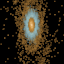
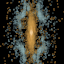
feat: open the spindle into anisotropic silk strands
Lower nest opacity, draw thin tall linear copies, and keep body xaos
lean so black can show between filaments instead of packing a sponge.

diff --git a/internal/sketch/flame/genome.go b/internal/sketch/flame/genome.go
@@ -47,64 +47,69 @@ func post(x *fl.Xform, sx, sy, rot, tx, ty float64) {
 func spindleGenome(set settings, rng *rand.Rand) fl.System {
 	r := set.reach
 	n := set.weave
-	power := 4.0 + float64(rng.IntN(4)) // 4–7: branching nest, not a filled disc
-	// Julian nest = cyan crystalline crossing (colour pinned in colorize).
+	// Nest spreads the branching; copies thin it into open silk. Nest
+	// plots faint so its filled mass does not bury the hairlines.
+	power := 4.0 + float64(rng.IntN(3)) // 4–6
+	nr := 0.65 + 0.35*r
 	nest := xf(
-		[]fl.Var{{Kind: fl.JulianN, Weight: 1, P: [4]float64{power, rnd.Uniform(rng, 0.78, 1.12)}}},
-		rnd.Uniform(rng, 0.28, 0.46)*r, rnd.Uniform(rng, 0.28, 0.46)*r,
+		[]fl.Var{{Kind: fl.JulianN, Weight: 1, P: [4]float64{power, rnd.Uniform(rng, 0.58, 0.88)}}},
+		rnd.Uniform(rng, 0.34, 0.55)*nr, rnd.Uniform(rng, 0.34, 0.55)*nr,
 		rnd.Uniform(rng, -0.4, 0.4), rnd.Uniform(rng, -0.04, 0.04), rnd.Uniform(rng, -0.04, 0.04),
-		0, rnd.Uniform(rng, 0.75, 1.15),
+		0, rnd.Uniform(rng, 0.4, 0.65),
 	)
-	// Contractive linear copies reprint the nest at smaller scales — the
-	// filigree engine. Two copies are the minimum for recursive hairlines.
+	nest.Opacity = rnd.Uniform(rng, 0.12, 0.25)
+	// Anisotropic linears (narrow in x, taller in y) draw strands instead
+	// of packing area — black stays visible between filaments.
 	copy1 := xf(
 		[]fl.Var{{Kind: fl.Linear, Weight: 1}},
-		rnd.Uniform(rng, 0.2, 0.34), rnd.Uniform(rng, 0.28, 0.48),
-		rnd.Uniform(rng, -0.22, 0.22), rnd.Uniform(rng, -0.1, 0.1), rnd.Uniform(rng, -0.05, 0.05),
-		1, rnd.Uniform(rng, 0.8, 1.15),
+		rnd.Uniform(rng, 0.14, 0.24), rnd.Uniform(rng, 0.42, 0.62),
+		rnd.Uniform(rng, -0.18, 0.18), rnd.Uniform(rng, -0.08, 0.08), rnd.Uniform(rng, -0.04, 0.04),
+		1, rnd.Uniform(rng, 1.1, 1.5),
 	)
 	copy2 := xf(
-		[]fl.Var{{Kind: fl.Linear, Weight: 0.7}, {Kind: fl.Swirl, Weight: 0.3 * r}},
-		rnd.Uniform(rng, 0.18, 0.3), rnd.Uniform(rng, 0.26, 0.42),
-		rnd.Uniform(rng, -0.9, 0.9), rnd.Uniform(rng, -0.08, 0.08), rnd.Uniform(rng, -0.06, 0.06),
-		1, rnd.Uniform(rng, 0.55, 0.9),
+		[]fl.Var{{Kind: fl.Linear, Weight: 0.85}, {Kind: fl.Swirl, Weight: 0.15 * r}},
+		rnd.Uniform(rng, 0.12, 0.2), rnd.Uniform(rng, 0.32, 0.5),
+		rnd.Uniform(rng, -1.0, 1.0), rnd.Uniform(rng, -0.06, 0.06), rnd.Uniform(rng, -0.04, 0.04),
+		1, rnd.Uniform(rng, 0.8, 1.15),
 	)
-	sys := fl.System{X: []fl.Xform{nest, copy1, copy2}}
+	copy3 := xf(
+		[]fl.Var{{Kind: fl.Linear, Weight: 1}},
+		rnd.Uniform(rng, 0.1, 0.18), rnd.Uniform(rng, 0.28, 0.44),
+		rnd.Uniform(rng, -0.28, 0.28), rnd.Uniform(rng, -0.05, 0.05), rnd.Uniform(rng, -0.03, 0.03),
+		1, rnd.Uniform(rng, 0.55, 0.85),
+	)
+	sys := fl.System{X: []fl.Xform{nest, copy1, copy2, copy3}}
 
-	// Faint spherical arcs off the equator — Zander's secondary loops.
 	if n >= 4 {
 		arc := xf(
-			[]fl.Var{{Kind: fl.Spherical, Weight: 0.55}, {Kind: fl.Linear, Weight: 0.45}},
-			rnd.Uniform(rng, 0.42, 0.7), rnd.Uniform(rng, 0.42, 0.7),
-			rnd.Uniform(rng, -0.5, 0.5), rnd.Uniform(rng, -0.12, 0.12), rnd.Uniform(rng, -0.12, 0.12),
-			1, rnd.Uniform(rng, 0.22, 0.4),
+			[]fl.Var{{Kind: fl.Spherical, Weight: 0.3}, {Kind: fl.Linear, Weight: 0.7}},
+			rnd.Uniform(rng, 0.36, 0.55), rnd.Uniform(rng, 0.36, 0.55),
+			rnd.Uniform(rng, -0.5, 0.5), rnd.Uniform(rng, -0.1, 0.1), rnd.Uniform(rng, -0.1, 0.1),
+			1, rnd.Uniform(rng, 0.1, 0.18),
 		)
-		post(&arc, rnd.Uniform(rng, 0.88, 1.05), rnd.Uniform(rng, 0.88, 1.05), rnd.Uniform(rng, -0.15, 0.15), 0, 0)
+		arc.Opacity = 0.45
+		post(&arc, rnd.Uniform(rng, 0.9, 1.05), rnd.Uniform(rng, 0.9, 1.05), rnd.Uniform(rng, -0.12, 0.12), 0, 0)
 		sys.X = append(sys.X, arc)
 	}
 	if n >= 5 {
-		// Second nest branch at a different power, low weight: denser
-		// crossing without filling the plane.
 		nest2 := xf(
-			[]fl.Var{{Kind: fl.JulianN, Weight: 1, P: [4]float64{power - 1, rnd.Uniform(rng, 0.7, 1)}}},
-			rnd.Uniform(rng, 0.35, 0.55)*r, rnd.Uniform(rng, 0.35, 0.55)*r,
-			rnd.Uniform(rng, -0.6, 0.6), rnd.Uniform(rng, -0.06, 0.06), rnd.Uniform(rng, -0.06, 0.06),
-			0, rnd.Uniform(rng, 0.2, 0.38),
+			[]fl.Var{{Kind: fl.JulianN, Weight: 1, P: [4]float64{power - 1, rnd.Uniform(rng, 0.55, 0.8)}}},
+			rnd.Uniform(rng, 0.3, 0.48)*nr, rnd.Uniform(rng, 0.3, 0.48)*nr,
+			rnd.Uniform(rng, -0.55, 0.55), rnd.Uniform(rng, -0.05, 0.05), rnd.Uniform(rng, -0.05, 0.05),
+			0, rnd.Uniform(rng, 0.12, 0.22),
 		)
+		nest2.Opacity = rnd.Uniform(rng, 0.2, 0.35)
 		sys.X = append(sys.X, nest2)
 		needle := xf(
-			[]fl.Var{{Kind: fl.Heart, Weight: 0.7}, {Kind: fl.Linear, Weight: 0.3}},
-			rnd.Uniform(rng, 0.35, 0.5), rnd.Uniform(rng, 0.7, 1.0),
+			[]fl.Var{{Kind: fl.Heart, Weight: 0.5}, {Kind: fl.Linear, Weight: 0.5}},
+			rnd.Uniform(rng, 0.28, 0.42), rnd.Uniform(rng, 0.7, 1.0),
 			rnd.Uniform(rng, -0.08, 0.08), 0, 0,
-			1, rnd.Uniform(rng, 0.1, 0.2),
+			1, rnd.Uniform(rng, 0.08, 0.14),
 		)
 		post(&needle, 0.78, 1.48, 0, 0, 0)
 		sys.X = append(sys.X, needle)
 	}
 
-	// Final is a vertical post on a linear camera. A spherical final —
-	// even mild — opened a black-hole eye on every seed and killed the
-	// spindle. Nonlinear finals stay available for other structures.
 	fin := xf([]fl.Var{{Kind: fl.Linear, Weight: 1}}, 0.78, 0.78, 0, 0, 0, 0.5, 1)
 	post(&fin, 0.72, 1.52, 0, 0, 0)
 	sys.Final = &fin
@@ -138,11 +143,11 @@ func spindleXaos(sys *fl.System) {
 	}
 	for _, i := range body {
 		for _, j := range nest {
-			sys.SetXaos(i, j, 1.4)
+			sys.SetXaos(i, j, 1.5)
 		}
-		// Mild body→body so the gold mass does not clog into a solid.
+		// Keep body→body low so the gold mass stays open silk, not a sponge.
 		for _, j := range body {
-			sys.SetXaos(i, j, 0.55)
+			sys.SetXaos(i, j, 0.18)
 		}
 	}
 }

diff --git a/internal/sketch/flame/flame_test.go b/internal/sketch/flame/flame_test.go
@@ -202,8 +202,8 @@ func TestSpindleHasAtLeastThreeCreativeMaps(t *testing.T) {
 			n++
 		}
 	}
-	if n < 3 {
-		t.Fatalf("sparse spindle has %d creative maps; want ≥3 (nest + two copies)", n)
+	if n < 4 {
+		t.Fatalf("sparse spindle has %d creative maps; want ≥4 (nest + three copies)", n)
 	}
 }
 

diff --git a/docs/sketches/016-flame.md b/docs/sketches/016-flame.md
@@ -91,17 +91,18 @@ stretch; those are not three flags.
 | `tint`      | how colour is assigned     | split (4), walk (3), stain (1.5)                      |
 | `ground`    | what it sits on            | void (6), dusk (1.5), paper (0.8)                     |
 
-`spindle` is the Zander-like default mass: 180° symmetry, a JulianN nest
-(cyan), two contractive linear copies for the filigree (gold), a vertical
-final post, and xaos that forbids nest-after-nest so the copies reprint
-the crossing. At `weave=chorus` a faint spherical adds equatorial arcs;
-at `dense` a second Julian branch and a low-weight heart needle join.
-Heart is never the primary map — it filled a teardrop of fuzzy hair. A
-spherical *final* was tried and rejected: even mild weight opened a
-black-hole eye on every seed. `filament` drops the required symmetry
-and lets the nest run more asymmetric. `bloom` leans on bubble/eyefish
-(rounder, more filled). `spiral` / `fold` / `julia` are the recognisable
-variation families.
+`spindle` is the Zander-like default mass: 180° symmetry, a low-opacity
+JulianN nest (cyan), three anisotropic linear copies that draw strands
+rather than packing area (gold), a vertical final post, and xaos that
+keeps body→body low so black can show between hairlines. Mild isotropic
+contraction plus DE was what made the sponge fill. At `weave=chorus` a
+faint spherical adds equatorial arcs; at `dense` a second Julian branch
+and a low-weight heart needle join. Heart is never the primary map. A
+spherical *final* was tried and rejected. For open silk on a given
+seed, prefer `--estimator 2–4` and a modest gamma (~2.3); the default
+estimator 9 smooths cores but fills the gaps. `filament` drops the
+required symmetry. `bloom` / `spiral` / `fold` / `julia` are the other
+families.
 
 `split` on spindle pins Julian maps to the cool end and body maps to the
 warm end. Other structures still use order-based split (coolest on the
